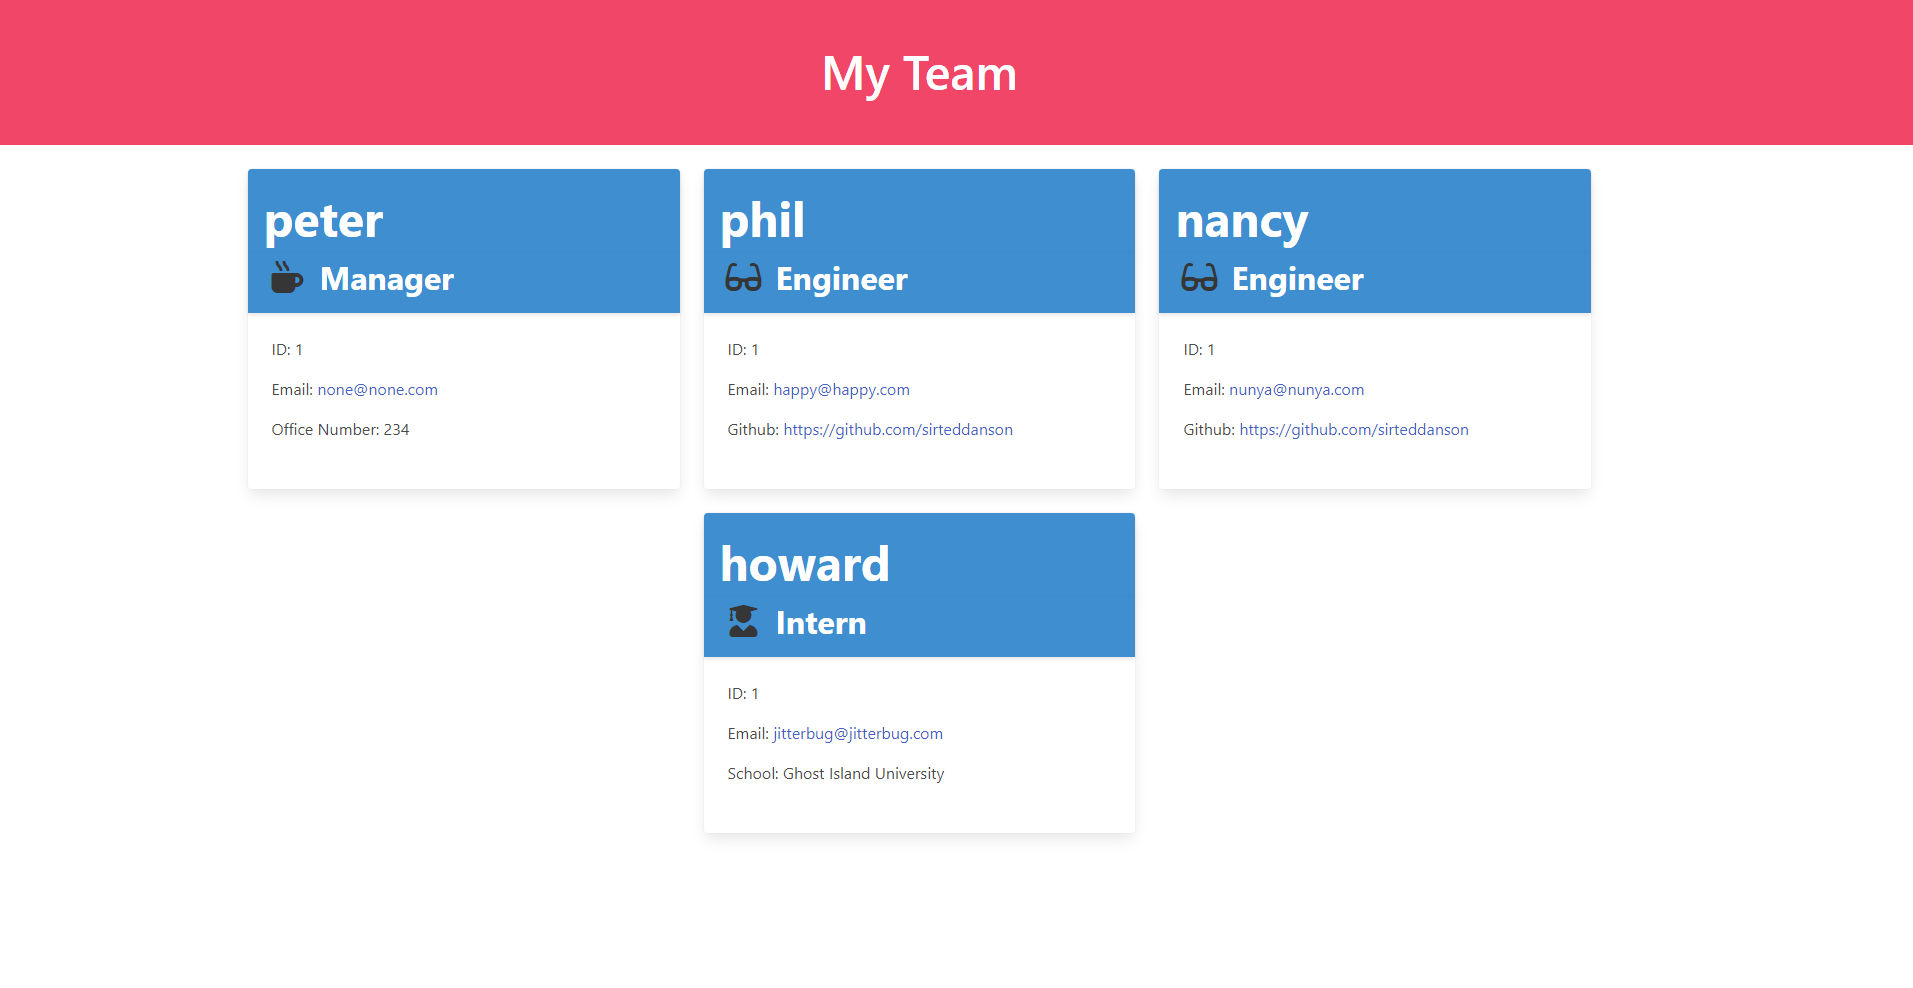
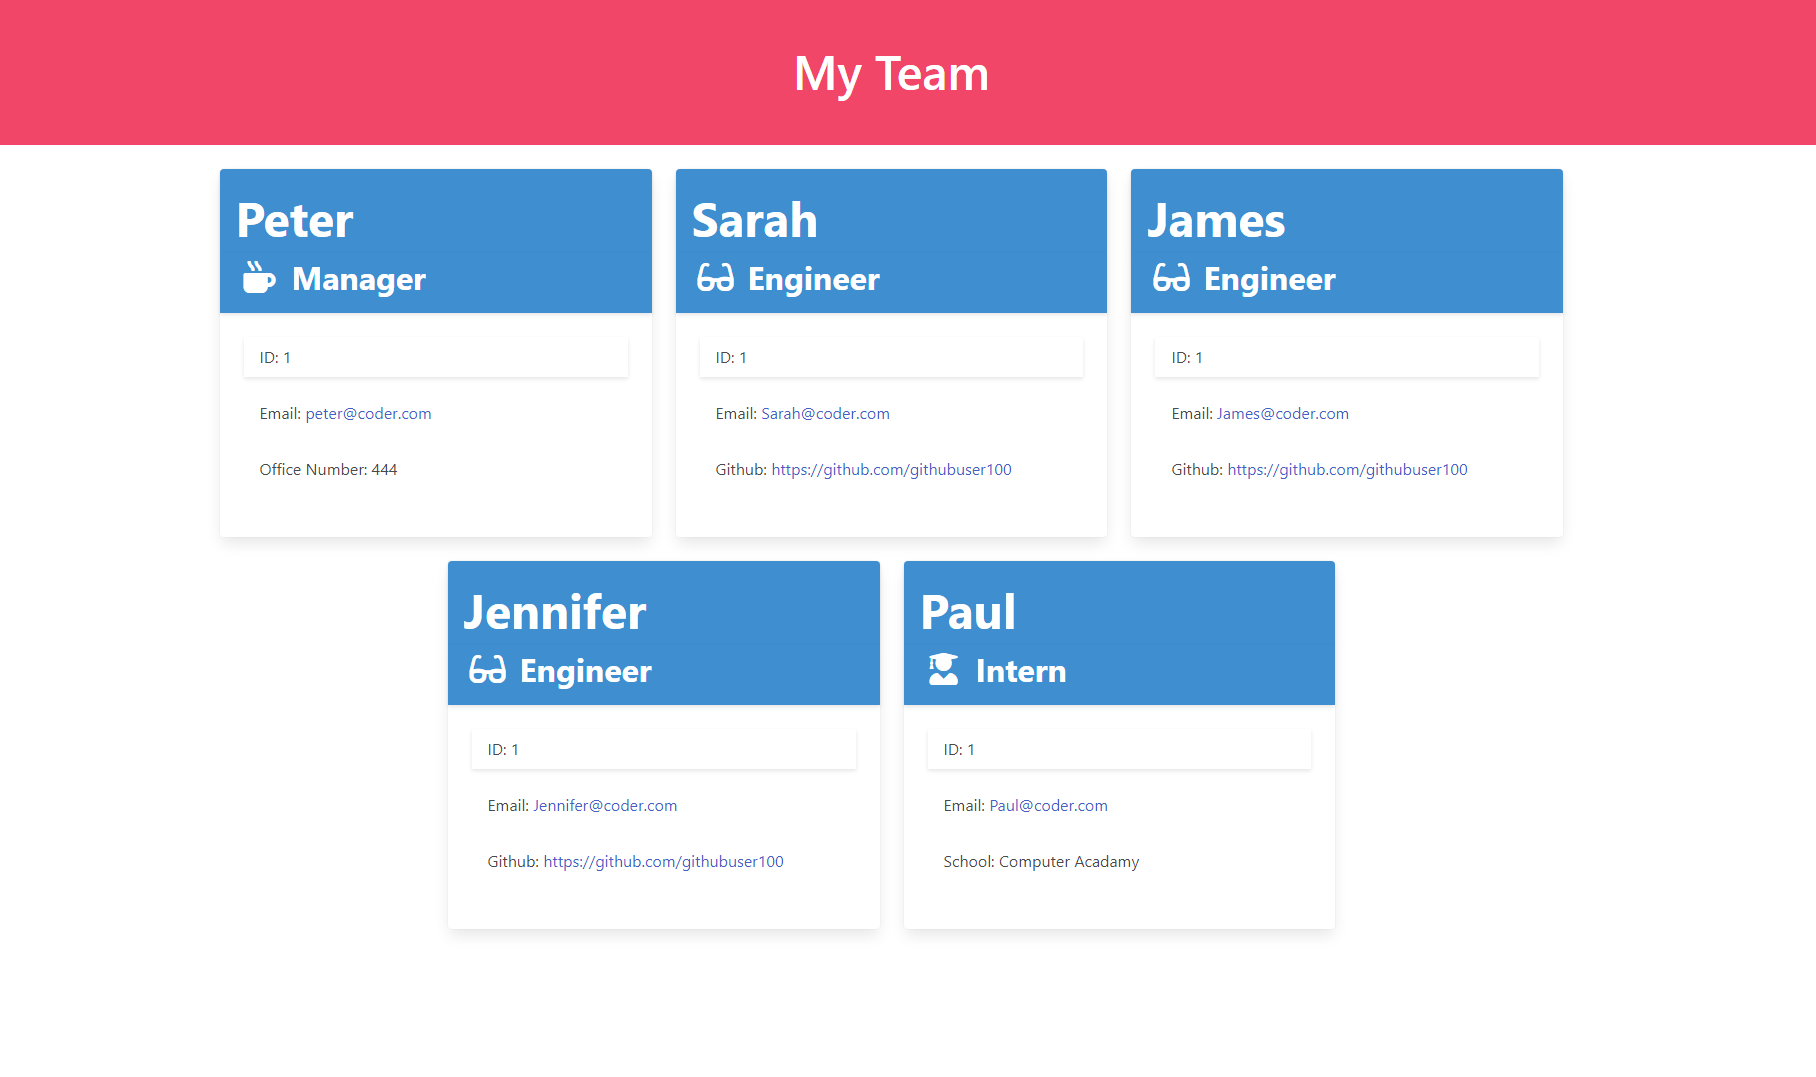
new index.html sample, new scrnshot

diff --git a/example-index.html b/example-index.html
@@ -23,107 +23,142 @@
 <!-- Team Member Container -->
   <section class="container pt-5">
     <div class="columns is-multiline is-centered">
+     <!-- Team Member Card -->
     <div class="column is-one-third">
-    <div class="card team-member">
-      <header class="card-header has-background-info">
-        <p class="card-header-title has-text-white is-size-1 pb-0">
-          peter
-        </p>
-      </header>
-      <header class="card-header has-background-info">
-        <div class="card-header-title pt-0">
-          <span class="icon icon is-large">
-            <i class="fas fa-mug-hot fa-2x"></i>
-          </span>
-          <p class="has-text-white is-size-3 pl-2">
-          Manager
+      <div class="card team-member">
+        <header class="card-header has-background-info">
+          <p class="card-header-title has-text-white is-size-1 pb-0">
+            Peter
           </p>
+        </header>
+        <header class="card-header has-background-info">
+          <div class="card-header-title pt-0">
+            <span class="icon icon is-large">
+              <i class="fas fa-mug-hot fa-2x"></i>
+            </span>
+            <p class="has-text-white is-size-3 pl-2">
+            Manager
+            </p>
+          </div>
+        </header>
+        <div class="card-content">
+          <div class="content pb-5">
+            <p class="box-shadow">ID: 1</p>
+            <p>Email: <a href = "mailto: peter@coder.com">peter@coder.com</a></p>
+            <p>Office Number: 444</p>
+          </div>
         </div>
-      </header>
-      <div class="card-content">
-        <div class="content pb-5">
-          <p class="box-shadow">ID: 1</p>
-          <p>Email: <a href = "mailto: none@none.com">none@none.com</a></p>
-          <p>Office Number: 234</p>
+      </div>
+    </div> 
+ <!-- Team Member Card -->
+    <div class="column is-one-third">
+      <div class="card team-member">
+        <header class="card-header has-background-info">
+          <p class="card-header-title has-text-white is-size-1 pb-0">
+            Sarah
+          </p>
+        </header>
+        <header class="card-header has-background-info">
+          <div class="card-header-title pt-0">
+            <span class="icon icon is-large">
+              <i class="fas fa-glasses fa-2x"></i>
+            </span>
+            <p class="has-text-white is-size-3 pl-2">
+            Engineer
+            </p>
+          </div>
+        </header>
+        <div class="card-content">
+          <div class="content pb-5">
+            <p class="box-shadow">ID: 1</p>
+            <p>Email: <a href = "mailto: Sarah@coder.com">Sarah@coder.com</a></p>
+            <p>Github: <a href = "https://github.com/githubuser100">https://github.com/githubuser100</a></p>
+          </div>
         </div>
       </div>
     </div>
-  </div><div class="column is-one-third">
-    <div class="card team-member">
-      <header class="card-header has-background-info">
-        <p class="card-header-title has-text-white is-size-1 pb-0">
-          phil
-        </p>
-      </header>
-      <header class="card-header has-background-info">
-        <div class="card-header-title pt-0">
-          <span class="icon icon is-large">
-            <i class="fas fa-glasses fa-2x"></i>
-          </span>
-          <p class="has-text-white is-size-3 pl-2">
-          Engineer
+    <!-- Team Member Card -->
+    <div class="column is-one-third">
+      <div class="card team-member">
+        <header class="card-header has-background-info">
+          <p class="card-header-title has-text-white is-size-1 pb-0">
+            James
           </p>
-        </div>
-      </header>
-      <div class="card-content">
-        <div class="content pb-5">
-          <p class="box-shadow">ID: 1</p>
-          <p>Email: <a href = "mailto: happy@happy.com">happy@happy.com</a></p>
-          <p>Github: <a href = "https://github.com/sirteddanson">https://github.com/sirteddanson</a></p>
+        </header>
+        <header class="card-header has-background-info">
+          <div class="card-header-title pt-0">
+            <span class="icon icon is-large">
+              <i class="fas fa-glasses fa-2x"></i>
+            </span>
+            <p class="has-text-white is-size-3 pl-2">
+            Engineer
+            </p>
+          </div>
+        </header>
+        <div class="card-content">
+          <div class="content pb-5">
+            <p class="box-shadow">ID: 1</p>
+            <p>Email: <a href = "mailto: James@coder.com">James@coder.com</a></p>
+            <p>Github: <a href = "https://github.com/githubuser100">https://github.com/githubuser100</a></p>
+          </div>
         </div>
       </div>
     </div>
-  </div><div class="column is-one-third">
-    <div class="card team-member">
-      <header class="card-header has-background-info">
-        <p class="card-header-title has-text-white is-size-1 pb-0">
-          nancy
-        </p>
-      </header>
-      <header class="card-header has-background-info">
-        <div class="card-header-title pt-0">
-          <span class="icon icon is-large">
-            <i class="fas fa-glasses fa-2x"></i>
-          </span>
-          <p class="has-text-white is-size-3 pl-2">
-          Engineer
+    <!-- Team Member Card -->
+    <div class="column is-one-third">
+      <div class="card team-member">
+        <header class="card-header has-background-info">
+          <p class="card-header-title has-text-white is-size-1 pb-0">
+            Jennifer
           </p>
-        </div>
-      </header>
-      <div class="card-content">
-        <div class="content pb-5">
-          <p class="box-shadow">ID: 1</p>
-          <p>Email: <a href = "mailto: nunya@nunya.com">nunya@nunya.com</a></p>
-          <p>Github: <a href = "https://github.com/sirteddanson">https://github.com/sirteddanson</a></p>
+        </header>
+        <header class="card-header has-background-info">
+          <div class="card-header-title pt-0">
+            <span class="icon icon is-large">
+              <i class="fas fa-glasses fa-2x"></i>
+            </span>
+            <p class="has-text-white is-size-3 pl-2">
+            Engineer
+            </p>
+          </div>
+        </header>
+        <div class="card-content">
+          <div class="content pb-5">
+            <p class="box-shadow">ID: 1</p>
+            <p>Email: <a href = "mailto: Jennifer@coder.com">Jennifer@coder.com</a></p>
+            <p>Github: <a href = "https://github.com/githubuser100">https://github.com/githubuser100</a></p>
+          </div>
         </div>
       </div>
     </div>
-  </div><div class="column is-one-third">
-    <div class="card team-member">
-      <header class="card-header has-background-info">
-        <p class="card-header-title has-text-white is-size-1 pb-0">
-          howard
-        </p>
-      </header>
-      <header class="card-header has-background-info">
-        <div class="card-header-title pt-0">
-          <span class="icon icon is-large">
-            <i class="fas fa-user-graduate fa-2x"></i>
-          </span>
-          <p class="has-text-white is-size-3 pl-2">
-          Intern
+    <!-- Team Member Card -->
+    <div class="column is-one-third">
+      <div class="card team-member">
+        <header class="card-header has-background-info">
+          <p class="card-header-title has-text-white is-size-1 pb-0">
+            Paul
           </p>
-        </div>
-      </header>
-      <div class="card-content">
-        <div class="content pb-5">
-          <p class="box-shadow">ID: 1</p>
-          <p>Email: <a href = "mailto: jitterbug@jitterbug.com">jitterbug@jitterbug.com</a></p>
-          <p>School: Ghost Island University</p>
+        </header>
+        <header class="card-header has-background-info">
+          <div class="card-header-title pt-0">
+            <span class="icon icon is-large">
+              <i class="fas fa-user-graduate fa-2x"></i>
+            </span>
+            <p class="has-text-white is-size-3 pl-2">
+            Intern
+            </p>
+          </div>
+        </header>
+        <div class="card-content">
+          <div class="content pb-5">
+            <p class="box-shadow">ID: 1</p>
+            <p>Email: <a href = "mailto: Paul@coder.com">Paul@coder.com</a></p>
+            <p>School: Computer Acadamy</p>
+          </div>
         </div>
       </div>
     </div>
-  </div>
+
     </div>
   </section>
 
